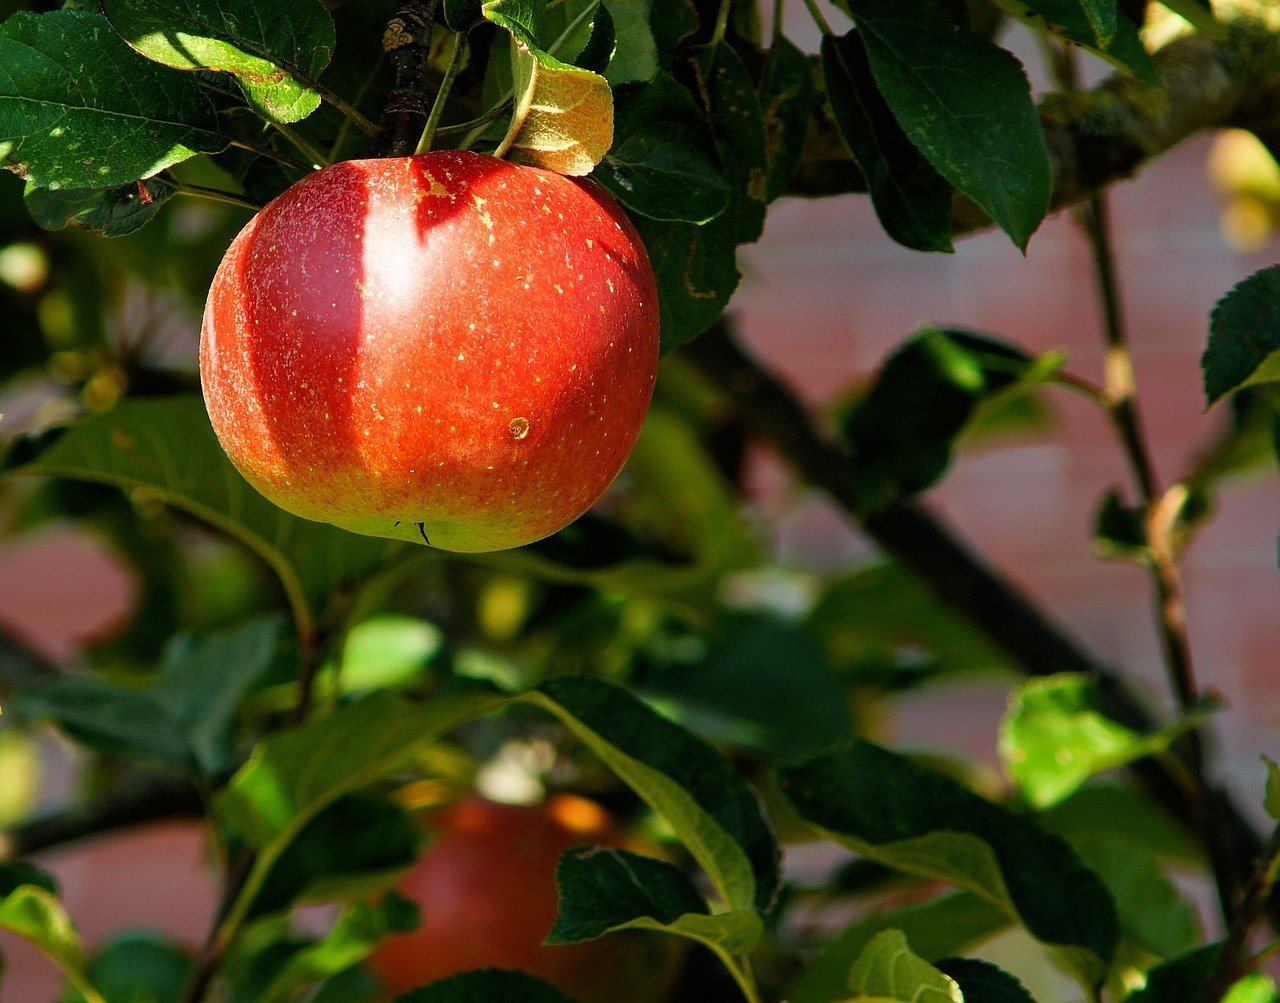
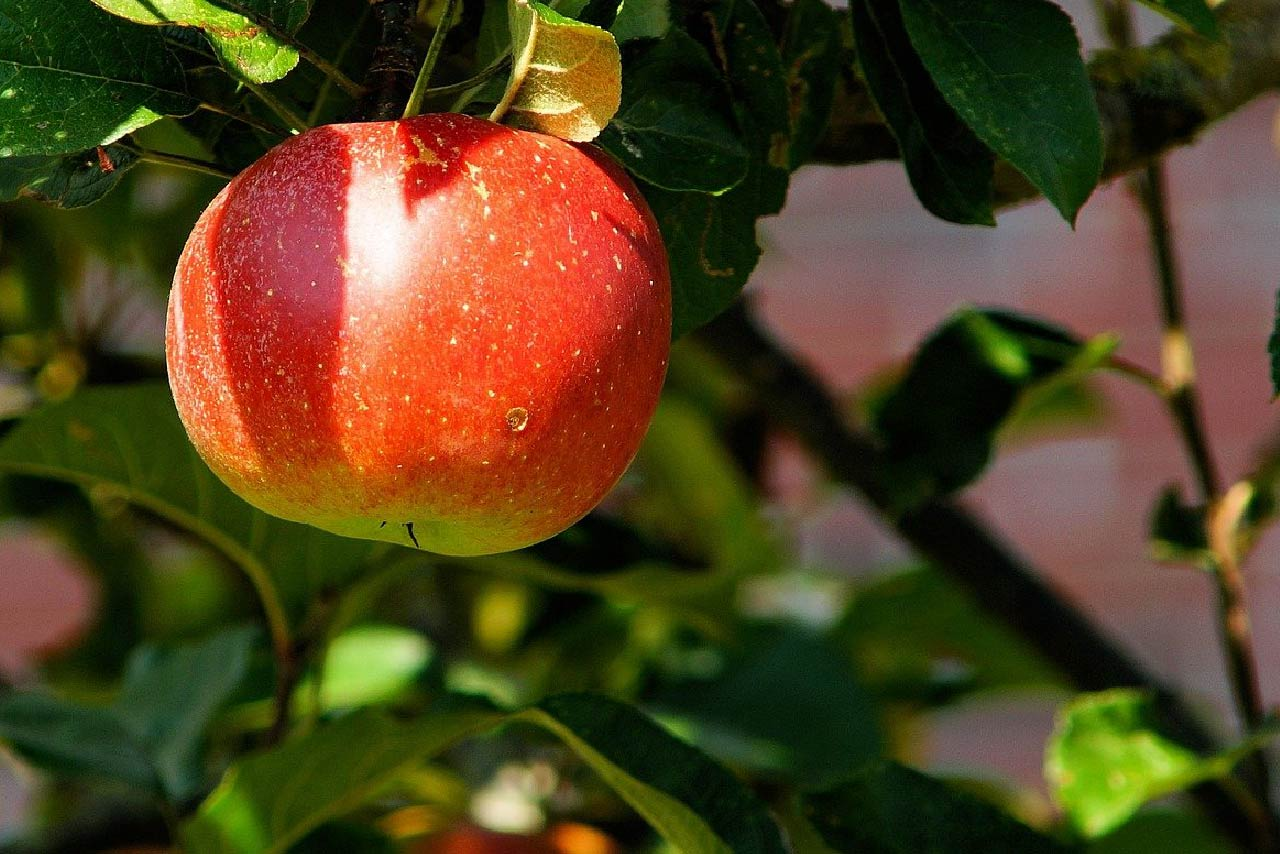
second page for frutales created
tab nav fixed to flex-end
new images added and resized

diff --git a/frutales-page-2.html b/frutales-page-2.html
@@ -79,18 +79,18 @@
            <div class="frutales1-2">
                <div class="box-frutales1">
                 <a href="">
-                    <img src="./images/arbol de almendro -Talagarden Vivero Santiago.jpg" alt="foto árbol de almendro Talagarden vivero de arboles chile">
+                    <img src="./images/arbol mancaqui -Talagarden Vivero Santiago.jpg" alt="foto árbol de Mancaqui Talagarden vivero de arboles chile">
                     <div class="text-container-box1-frutal">
-                        <p>Almendro</p>
+                        <p>Mancaqui</p>
                         <p>$50.000</p>
                     </div>
                 </a>
                </div>
                <div class="box-frutales2">
                     <a href="">                  
-                        <img src="./images/arbol arandanos -Talagarden Vivero Santiago.jpg" alt="foto árbol arándano Talagarden vivero de arboles chile">
+                        <img src="./images/arbol manzano fuji -Talagarden Vivero Santiago.jpg" alt="foto árbol Manzano Fuji Talagarden vivero de arboles chile">
                         <div class="text-container-box2-frutal">
-                            <p>Arándano</p>
+                            <p>Manzano Fuji</p>
                             <p>$50.000</p>
                         </div>
                     </a>
@@ -99,18 +99,18 @@
            <div class="frutales3-4">
             <div class="box-frutales3">
              <a href="">
-                 <img src="./images/arbol caqui -Talagarden Vivero Santiago.jpg" alt="foto árbol de Caqui Talagarden vivero de arboles chile">
+                 <img src="./images/arbol mancaqui -Talagarden Vivero Santiago.jpg" alt="foto árbol de Maqui Talagarden vivero de arboles chile">
                  <div class="text-container-box3-frutal">
-                     <p>Caqui</p>
+                     <p>Maqui*</p>
                      <p>$50.000</p>
                  </div>
              </a>
             </div>
             <div class="box-frutales4">
                  <a href="">                  
-                     <img src="./images/arbol cerezo -Talagarden Vivero Santiago.jpg" alt="foto árbol cerezo Talagarden vivero de arboles chile">
+                     <img src="./images/arbol membrillo champion -Talagarden Vivero Santiago.jpg" alt="foto árbol Membrillo Champion Talagarden vivero de arboles chile">
                      <div class="text-container-box4-frutal">
-                         <p>Cerezo</p>
+                         <p>Membrillo Champion</p>
                          <p>$50.000</p>
                      </div>
                  </a>
@@ -119,18 +119,18 @@
         <div class="frutales5-6">
             <div class="box-frutales5">
              <a href="">
-                 <img src="./images/arbol ciruelo -Talagarden Vivero Santiago.jpg" alt="foto árbol de Ciruelo Talagarden vivero de arboles chile">
+                 <img src="./images/arbol nispero -Talagarden Vivero Santiago.jpg" alt="foto árbol de Níspero Talagarden vivero de arboles chile">
                  <div class="text-container-box5-frutal">
-                     <p>Ciruelo</p>
+                     <p>Níspero</p>
                      <p>$50.000</p>
                  </div>
              </a>
             </div>
             <div class="box-frutales6">
                  <a href="">                  
-                     <img src="./images/arbol damasco -Talagarden Vivero Santiago.jpg" alt="foto árbol damasco Talagarden vivero de arboles chile">
+                     <img src="./images/arbol nogal -Talagarden Vivero Santiago.jpg" alt="foto árbol Nogal Talagarden vivero de arboles chile">
                      <div class="text-container-box6-frutal">
-                         <p>Damasco</p>
+                         <p>Nogal</p>
                          <p>$50.000</p>
                      </div>
                  </a>
@@ -139,23 +139,24 @@
         <div class="frutales7-8">
             <div class="box-frutales7">
              <a href="">
-                 <img src="./images/arbol durazno conservero -Talagarden Vivero Santiago.jpg" alt="foto árbol de Durazno Conservero Talagarden vivero de arboles chile">
+                 <img src="./images/arbol olivo -Talagarden Vivero Santiago.jpg" alt="foto árbol de Olivo Talagarden vivero de arboles chile">
                  <div class="text-container-box7-frutal">
-                     <p>Durazno Conservero</p>
+                     <p>Olivo</p>
                      <p>$50.000</p>
                  </div>
              </a>
             </div>
             <div class="box-frutales8">
                  <a href="">                  
-                     <img src="./images/arbol durazno nectarino platano -Talagarden Vivero Santiago-.jpg" alt="foto árbol Durazno Plátano Talagarden vivero de arboles chile">
+                     <img src="./images/arbol peral -Talagarden Vivero Santiago.jpg" alt="foto árbol Peral Talagarden vivero de arboles chile">
                      <div class="text-container-box8-frutal">
-                         <p>Durazno Plátano</p>
+                         <p>Peral</p>
                          <p>$50.000</p>
                      </div>
                  </a>
             </div>
         </div><!--end frutales 7-8-->
+        <!--
         <div class="frutales9-10">
             <div class="box-frutales9">
              <a href="">
@@ -175,16 +176,18 @@
                      </div>
                  </a>
             </div>
-        </div><!--end frutales 9-10-->
+        </div>
+    -->
+        <!--end frutales 9-10-->
 
         </div>
 
     </section> <!--fin de categories container-->
     <section class="nav-tab">
         <div class="tab-container">
-            <a href="#"><div class="page-1">1</div></a>
-            <a href="./frutales-page-2.html"><div class="page-2">2</div></a>
-            <a href="./frutales-page-2.html"><div class="next">&gt;</div></a>
+            <a href="./frutales.html"><div class="page-1">&lt;</div></a>
+            <a href="./frutales.html"><div class="page-1">1</div></a>
+            <a href="#"><div class="next">2</div></a>
         </div>
     </section>
 

diff --git a/styles/nav-tab-frutales.css b/styles/nav-tab-frutales.css
@@ -1,7 +1,7 @@
 .tab-container {
     display: flex;
     gap: 10px;
-    justify-content: end;
+    justify-content: flex-end;
     padding-right: 10px;
     font: var(--subtitle);
     padding-bottom:20px;
